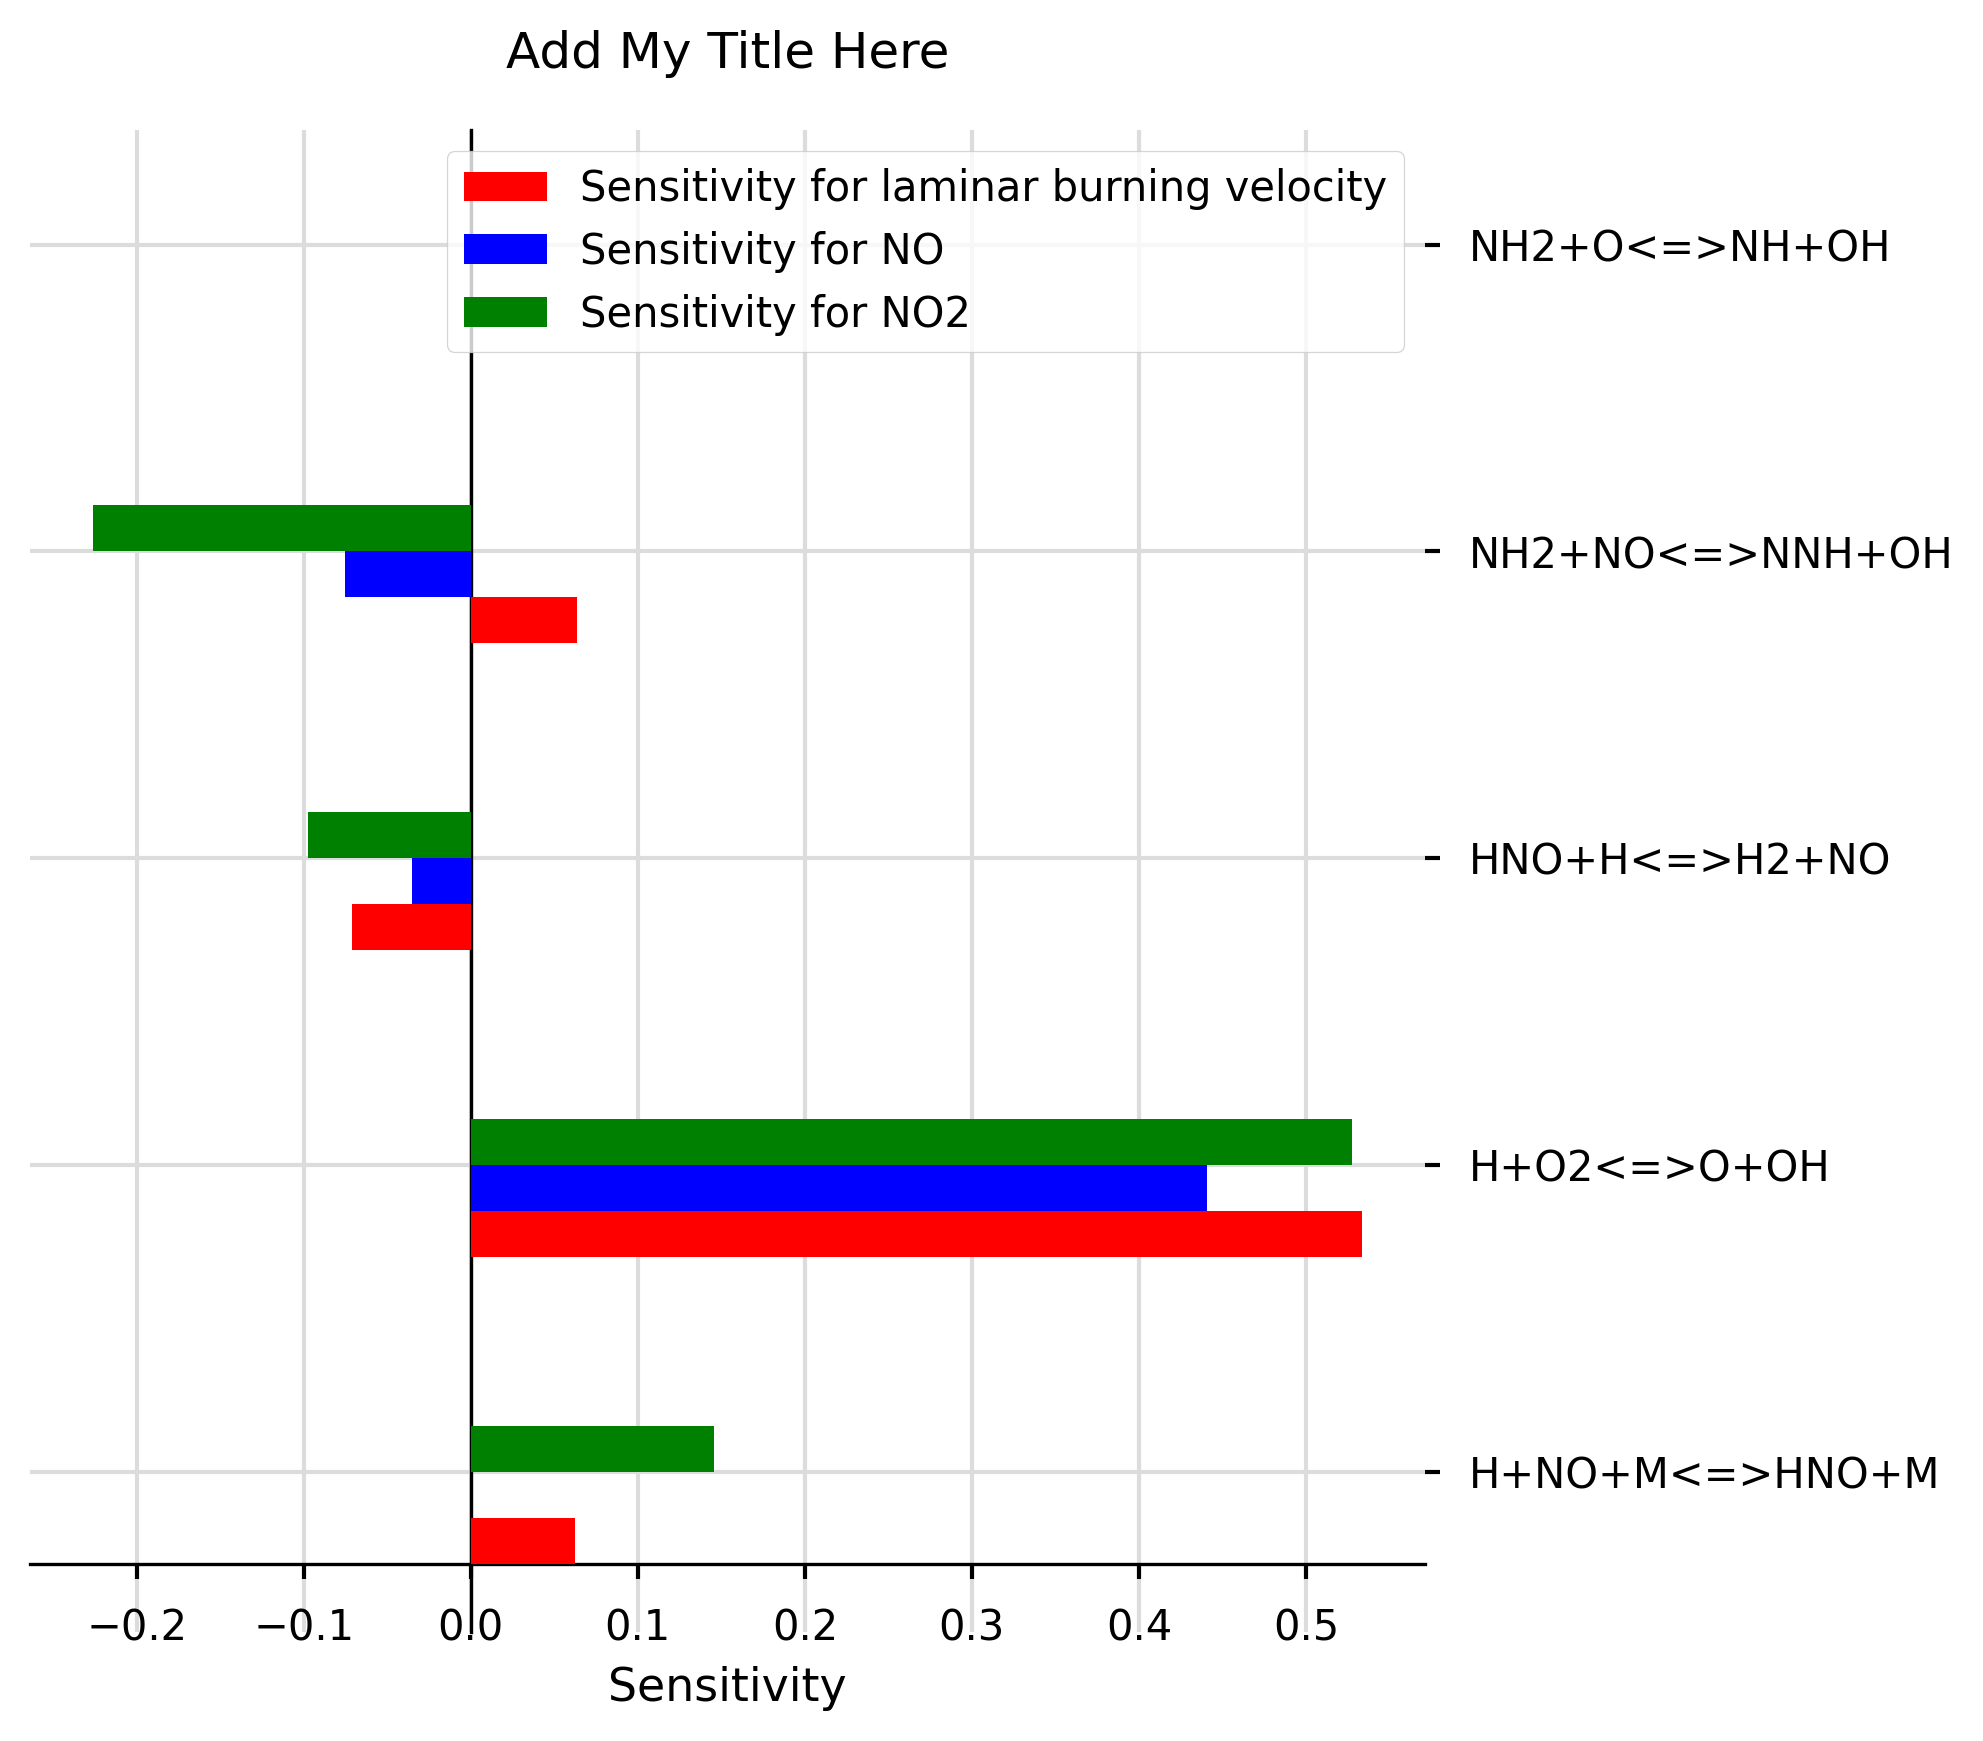
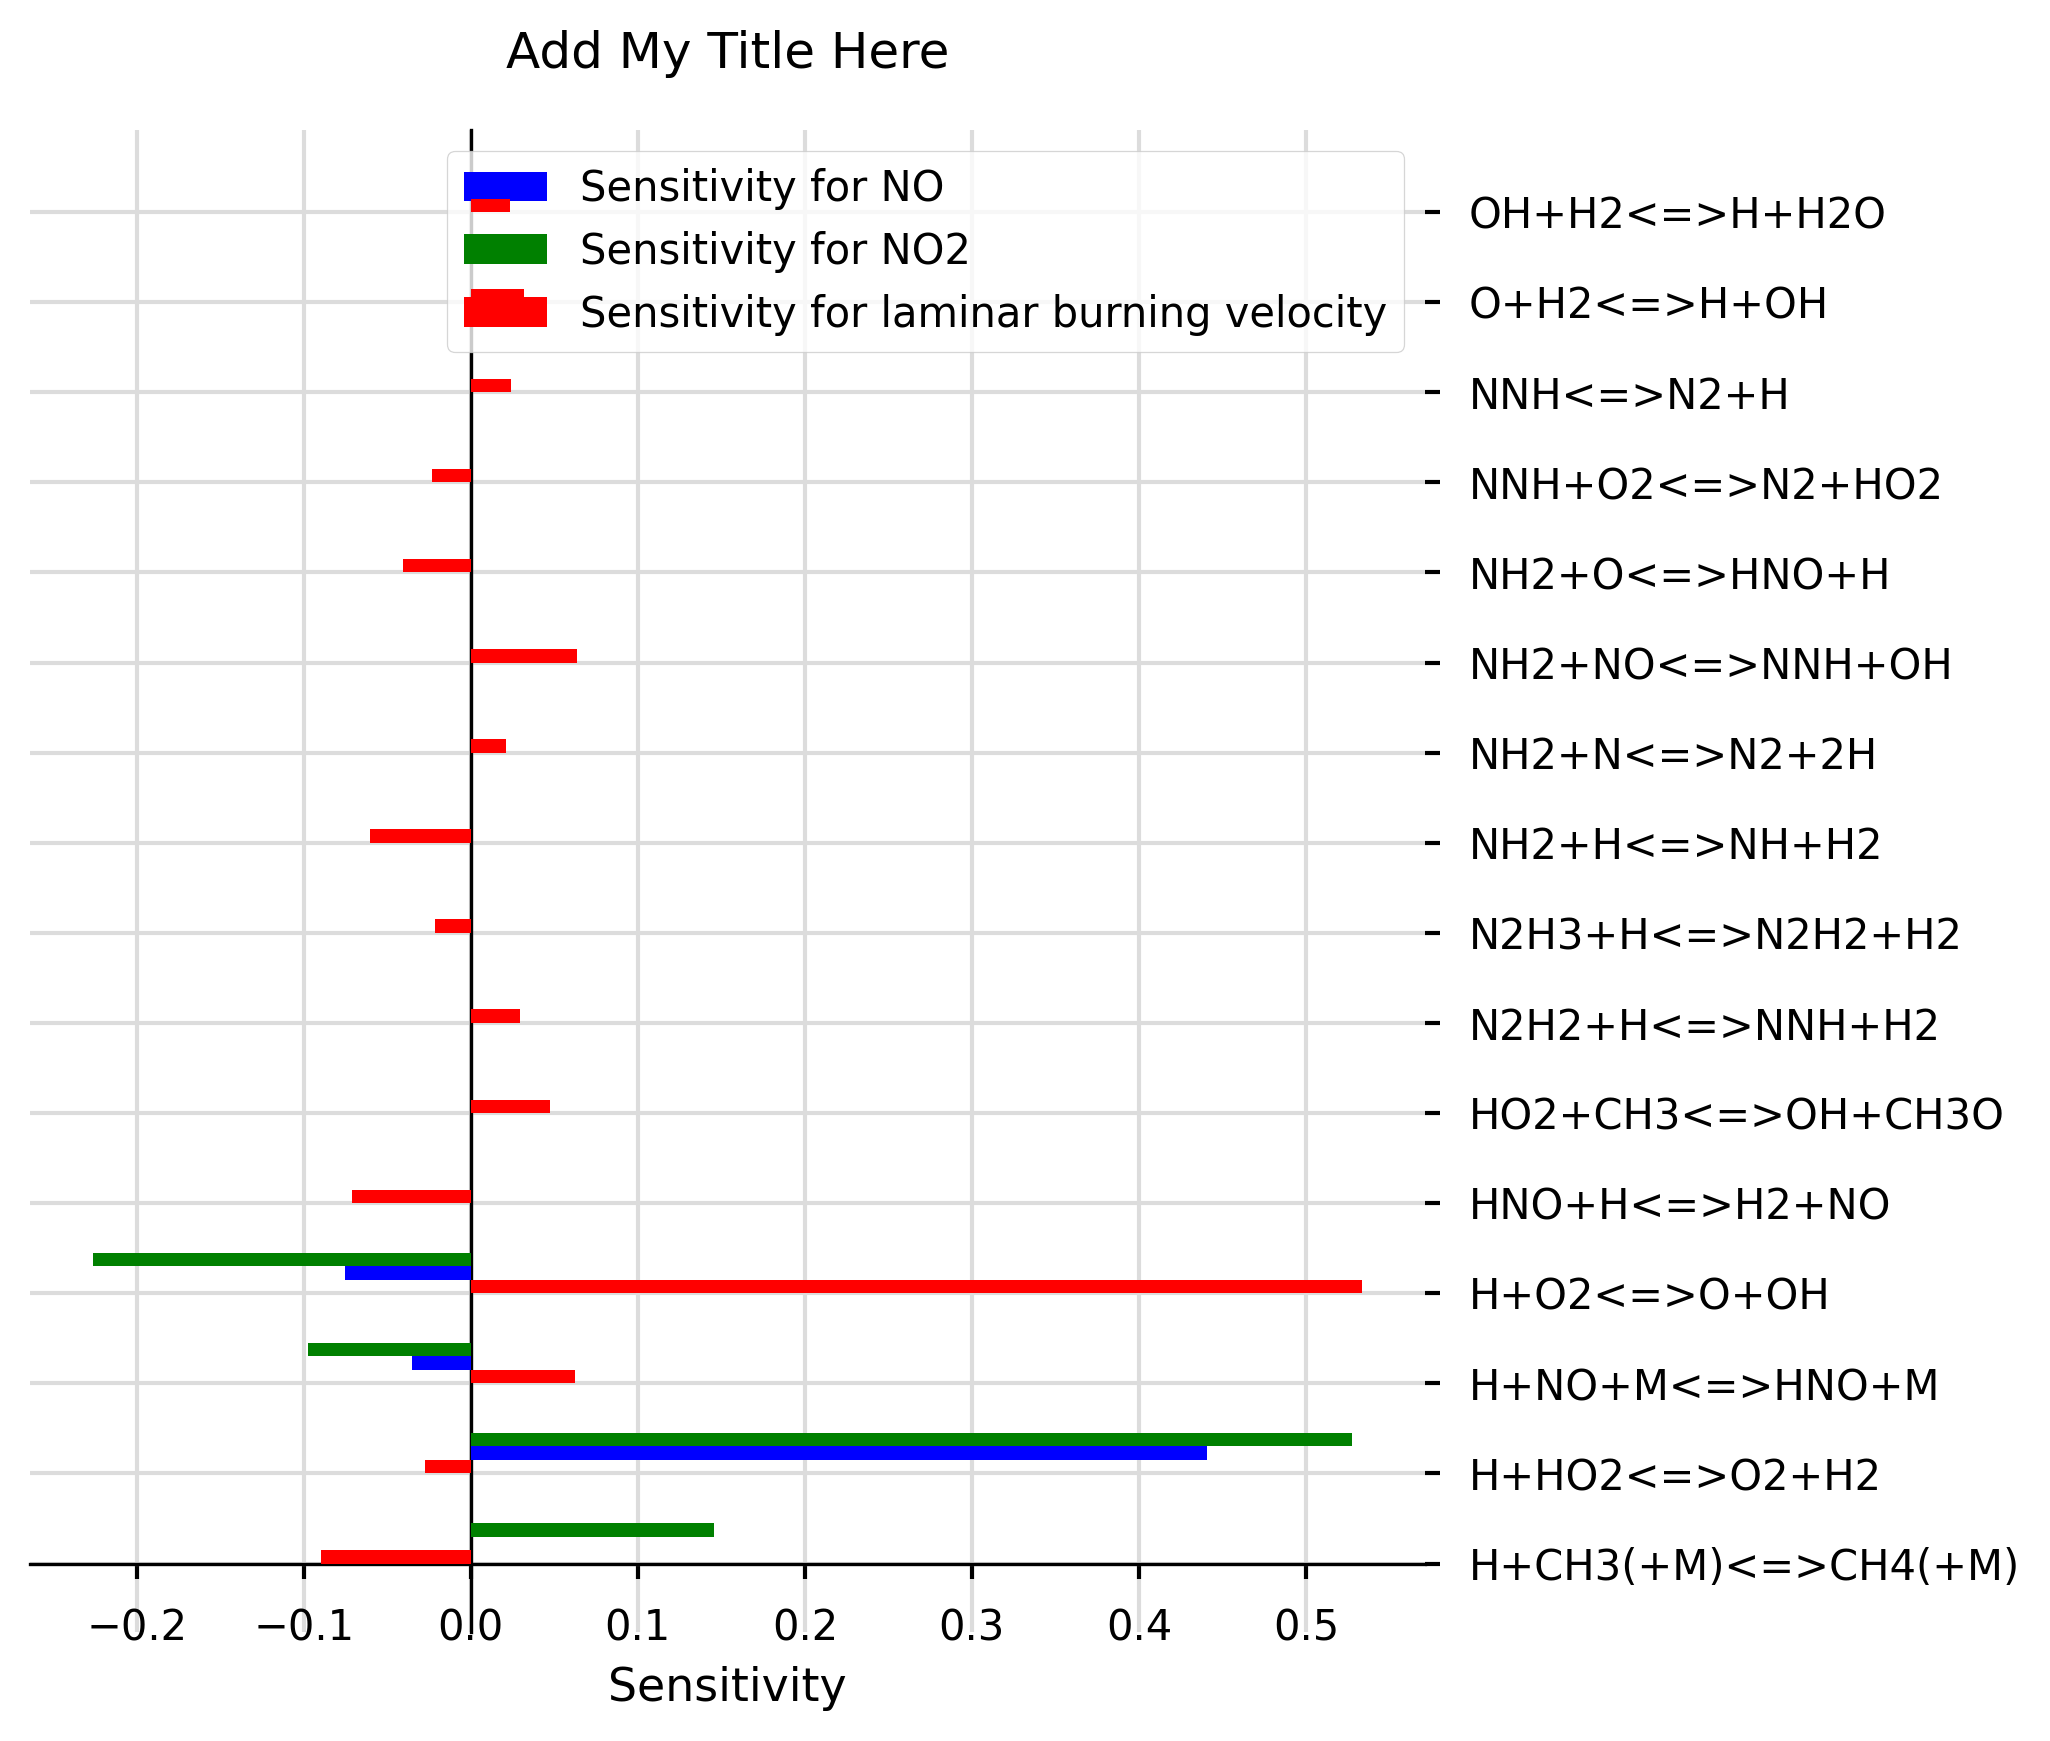
added filtering capability

diff --git a/src/spreadsheet/create_graphs.py b/src/spreadsheet/create_graphs.py
@@ -52,17 +52,36 @@ class Graph():
         else:
             return filtered_eqs
 
-    def find_col_values(self, df, list, Xcm_val, i : int = 2):
+    def find_col_values(self, df, list, Xcm_val, i : int = 2, filter_above = None, filter_below = None):
         d_name = []
         d_val = []
 
+        mask1 = df['Distance (m)'] == Xcm_val
+        data_df = df[mask1].copy(deep = True)
+
+        # add filter condition to df:
+        if filter_above is not None and filter_below is not None:
+            data_df1 = data_df.loc[:,(data_df > filter_above).any()].copy(deep = True)
+            data_df2 = data_df.loc[:,(data_df < filter_below).any()].copy(deep = True)
+            data_df = data_df1.join([data_df2])
+            # data_df = data_df[(df > filter_above) & (df < filter_below)]
+        elif filter_above is not None:
+            print("filtering above")
+            data_df = data_df.loc[:, (data_df > filter_above).any()].copy(deep = True)
+
+        elif filter_below is not None:
+            print("filtering below")
+            data_df = data_df.loc[:, (data_df < filter_below).any()].copy(deep = True)
+
         for l in list:
             # filter and take relevant values from dataframe and add to list. Extract all values as a list of lists
-            mask = df['Distance (m)'] == Xcm_val
-            data_df = df[mask]
-            d = pd.Series(data_df[l])
-            d_name.append(d.name.split('_')[i])
-            d_val.append(d.values[0])
+            if l in data_df.columns.values:
+                print(l)
+                d = pd.Series(data_df[l])
+                d_name.append(d.name.split('_')[i])
+                print(d_name)
+                # print(d_name)
+                d_val.append(d.values[0])
         return d_val, d_name
 
     def plot_bar(self, col_val, col_label, colour, gas_to_add = None, offset = 0):
@@ -102,7 +121,7 @@ class Graph():
                          figure=self.fig)
             self.ax.legend()
 
-    def plot_bar_species(self, name_of_folder_n_sheet: str, gas_to_add: str, list_of_eq: list = None, multiplier: float = 1,
+    def plot_bar_species(self, name_of_folder_n_sheet: str, gas_to_add: str, list_of_eq: list = None, multiplier: float = 1, filter_above = None, filter_below= None,
                          colour: str = 'b', X: float = 0.02, offset: float = 0):
         """
         This function takes REACTION SENSITIVITY values from a spreadsheet at default distance X(cm) = 2.0 and plots them.
@@ -138,21 +157,24 @@ class Graph():
             list_col_h = self.find_col_headers(sens_df, full_eq_list_when_no_eq, gas_to_add)
 
         if list_col_h is not None:
-            col_val, col_label = self.find_col_values(sens_df, list_col_h, X)
+            col_val, col_label = self.find_col_values(sens_df, list_col_h, X, filter_above = filter_above, filter_below = filter_below)
 
 
             #if column does not exist in col label, assign value = 0 to it and add label:
-            for eq in list_of_eq_local:
-                if eq not in col_label:
-                    col_label.append(eq)
-                    col_val.append(0)
-            print('ok:')
-            print(col_val)
-            print(col_label)
-            col_val = [x * multiplier for x in col_val]
-            self.plot_bar(col_val, col_label, colour, gas_to_add, offset=offset)
+            if filter_below is None and filter_above is None:
+                for eq in list_of_eq_local:
+                    if eq not in col_label:
+                        col_label.append(eq)
+                        col_val.append(0)
 
-    def plot_bar_lam_burning_v(self, name_of_folder_n_sheet: str, list_of_eq=None, multiplier: float = 1,
+            col_val = [x * multiplier for x in col_val]
+
+            if col_val:
+                self.plot_bar(col_val, col_label, colour, gas_to_add, offset=offset)
+            else:
+                raise ValueError('Cannot find values')
+
+    def plot_bar_lam_burning_v(self, name_of_folder_n_sheet: str, list_of_eq=None, multiplier: float = 1, filter_above = None, filter_below= None,
                                colour: str = 'red', X: float = 0, offset: float = 0):
         '''
         this function takes LAMINAR BURNING VELOCITY SENSITIVITY and plots it on a bar chart at default distance = 0 cm.
@@ -185,16 +207,20 @@ class Graph():
 
         # find 'gas + equation' (from equation list) in column headers and add to list_col_h the true column headers:
         if list_col_h is not None:
-            col_val, col_label = self.find_col_values(sens_df, list_col_h, X, 3)
+            col_val, col_label = self.find_col_values(sens_df, list_col_h, X, 3, filter_above = filter_above, filter_below = filter_below)
 
             #if column does not exist in col label, assign value = 0 to it and add label:
-            for eq in list_of_eq_local:
-                if eq not in col_label:
-                    col_label.append(eq)
-                    col_val.append(0)
+            if filter_below is None and filter_above is None:
+                for eq in list_of_eq_local:
+                    if eq not in col_label:
+                        col_label.append(eq)
+                        col_val.append(0)
 
             col_val =  [x * multiplier for x in col_val]
-            self.plot_bar(col_val, col_label, colour, offset=offset)
+            if col_val:
+                self.plot_bar(col_val, col_label, colour, offset=offset)
+            else:
+                raise ValueError('Cannot find values')
 
 
     def show_and_save(self, path_of_save_folder: str, name: str):

diff --git a/src/main.py b/src/main.py
@@ -6,12 +6,13 @@ def main():
     # Create a new graph:
     marina = create_graphs.Graph('Add My Title Here')
 
-    #Add laminar burning velocity plot using CHEMKIN generated export.csv spreadsheet:
-    marina.plot_bar_lam_burning_v('data/okafor_lam_sens/export.csv', ['NH2+O<=>NH+OH', 'NH2+NO<=>NNH+OH','H+NO+M<=>HNO+M', 'HNO+H<=>H2+NO', 'H+O2<=>O+OH'])
-
     #Add species plots for NO and NO2, with an offset create grouped bars, X distance defining chamber end and multiplier:
     marina.plot_bar_species('data/okafor_sens/Okafor_0.85_0.4sens.csv', 'NO', ['NH2+O<=>NH+OH', 'NH2+NO<=>NNH+OH','H+NO+M<=>HNO+M', 'HNO+H<=>H2+NO', 'H+O2<=>O+OH'], offset=0.15)
     marina.plot_bar_species('data/okafor_sens/Okafor_0.85_0.4sens.csv', 'NO2', ['NH2+O<=>NH+OH', 'NH2+NO<=>NNH+OH','H+NO+M<=>HNO+M', 'HNO+H<=>H2+NO', 'H+O2<=>O+OH'], multiplier = 10, X=0.02, colour = 'g', offset=0.3)
+
+
+    #Add laminar burning velocity plot using CHEMKIN generated export.csv spreadsheet:
+    marina.plot_bar_lam_burning_v('data/okafor_lam_sens/export.csv', filter_below = -0.02,filter_above = 0.02)
 
     #Save graphs to ./output/graphs folder (which user may need to create) under the name test.png:
     marina.show_and_save('./output/graphs', 'test')
